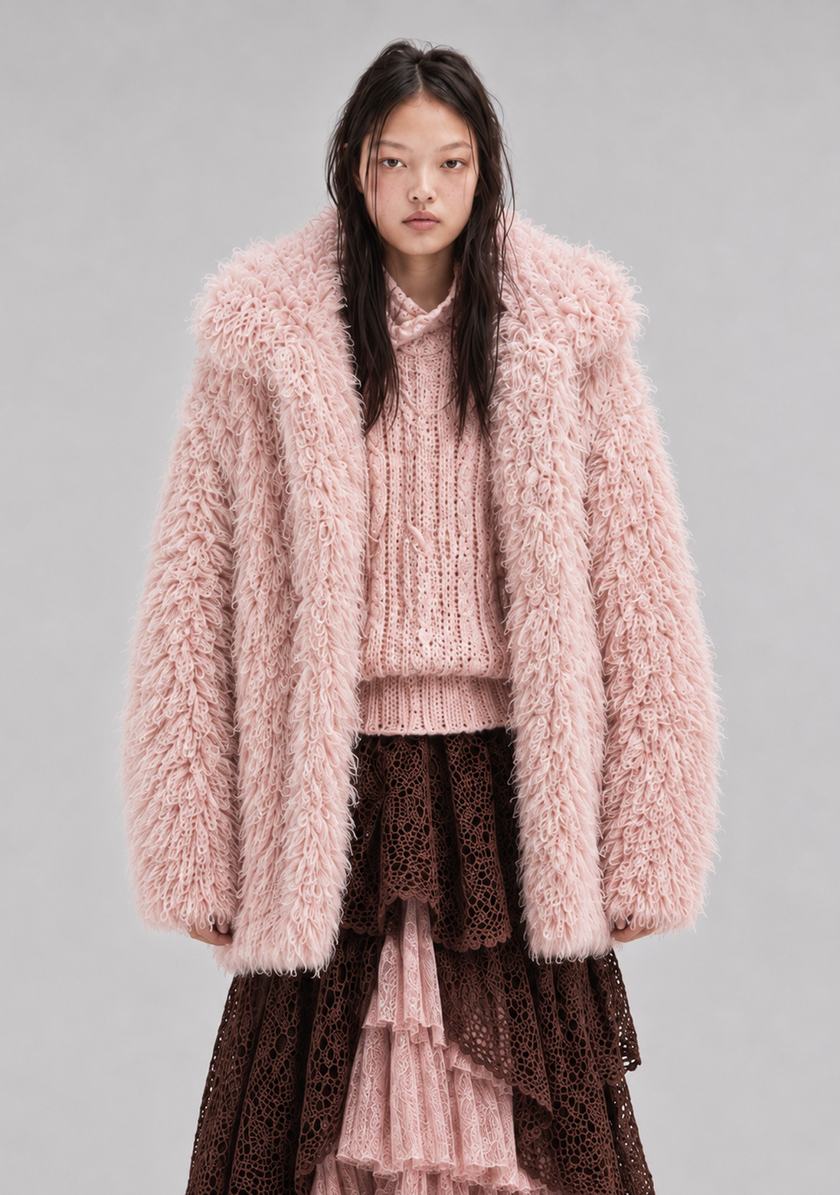
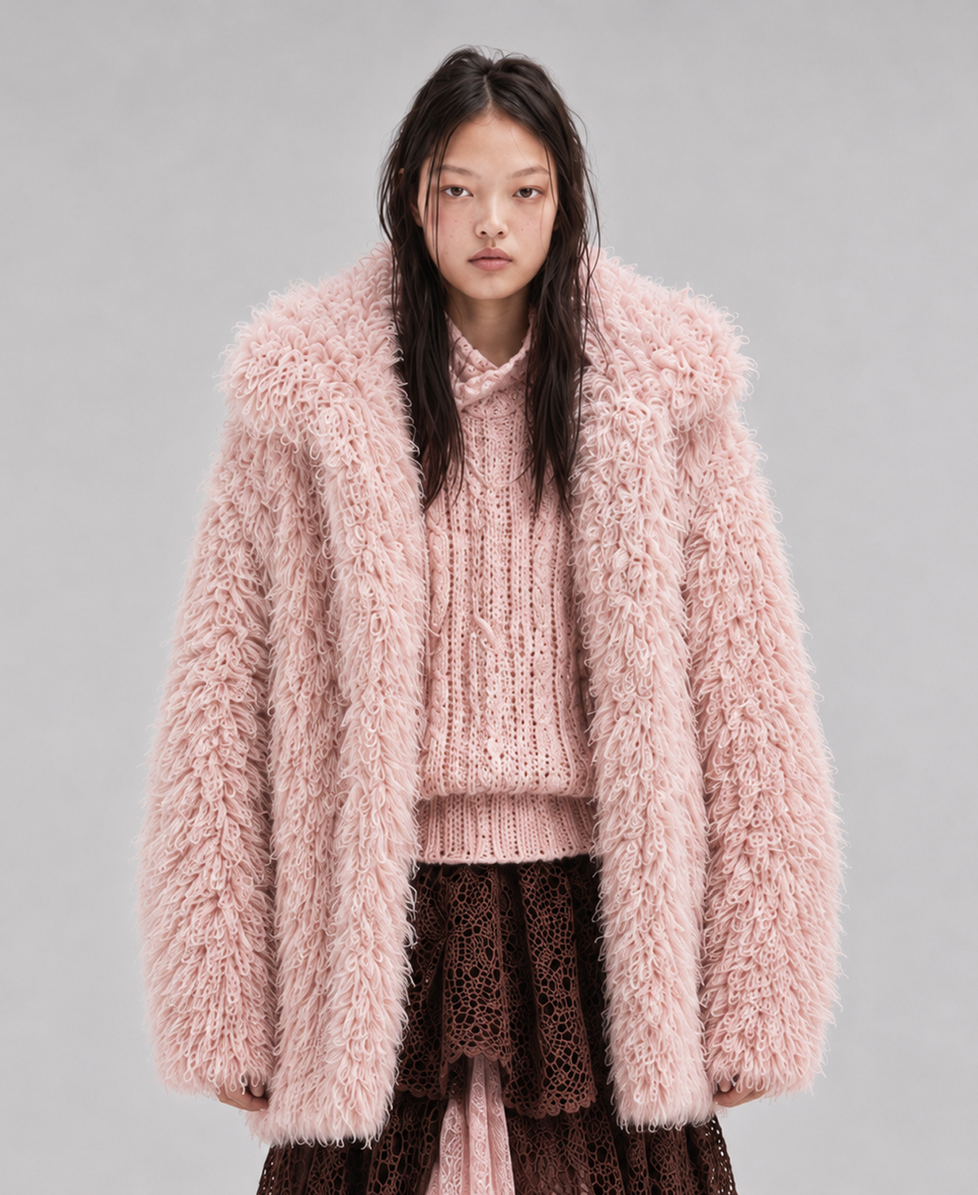
Take the rewidened Front cut and correct its sizes hint
Front.png is now 1480x1808, matching the widened 740x904 frame exactly.
The sizes hint still claimed 640px, which made the browser pick a
narrower candidate than the frame; derive it from the frame width.

diff --git a/app/product/page.tsx b/app/product/page.tsx
@@ -253,7 +253,7 @@ function ProductDetailModal({ p, onClose, onAddToCart }: { p: Product; onClose: 
                 src={mainImg}
                 alt={p.name}
                 fill
-                sizes="640px"
+                sizes={`${IMG_AREA_W}px`}
                 style={{
                   objectFit: "contain",
                   /* 상단 기준 정렬 — 프레임과 비율이 어긋나도 위쪽은 잘리지 않고
